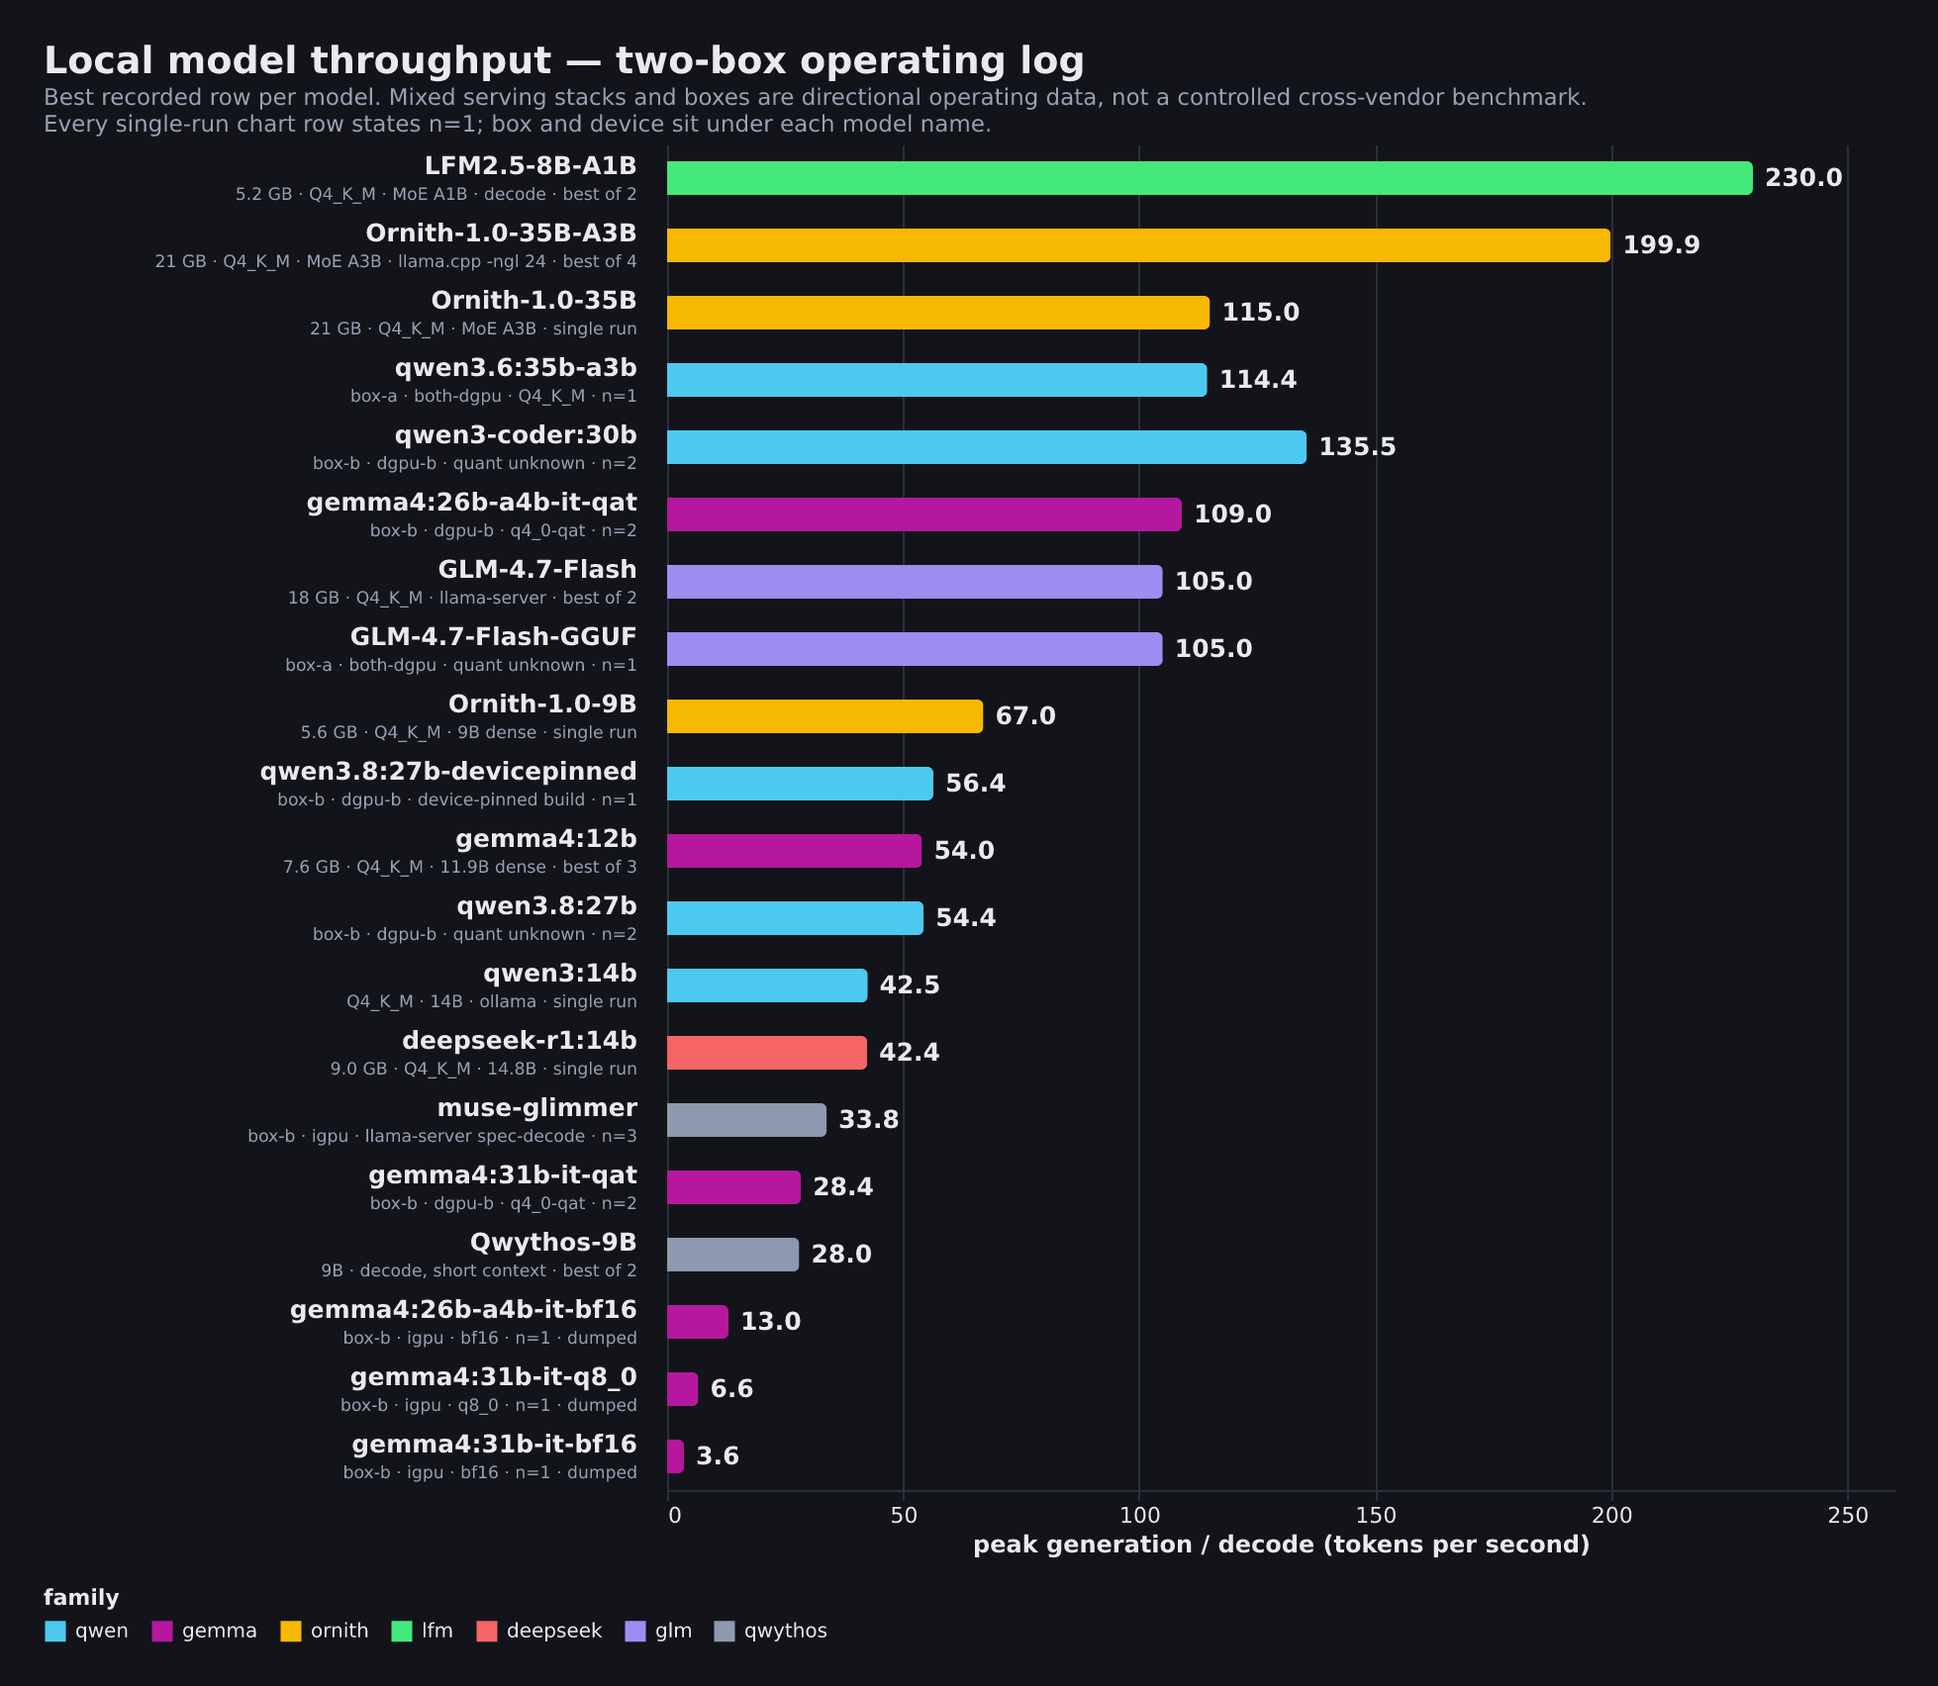
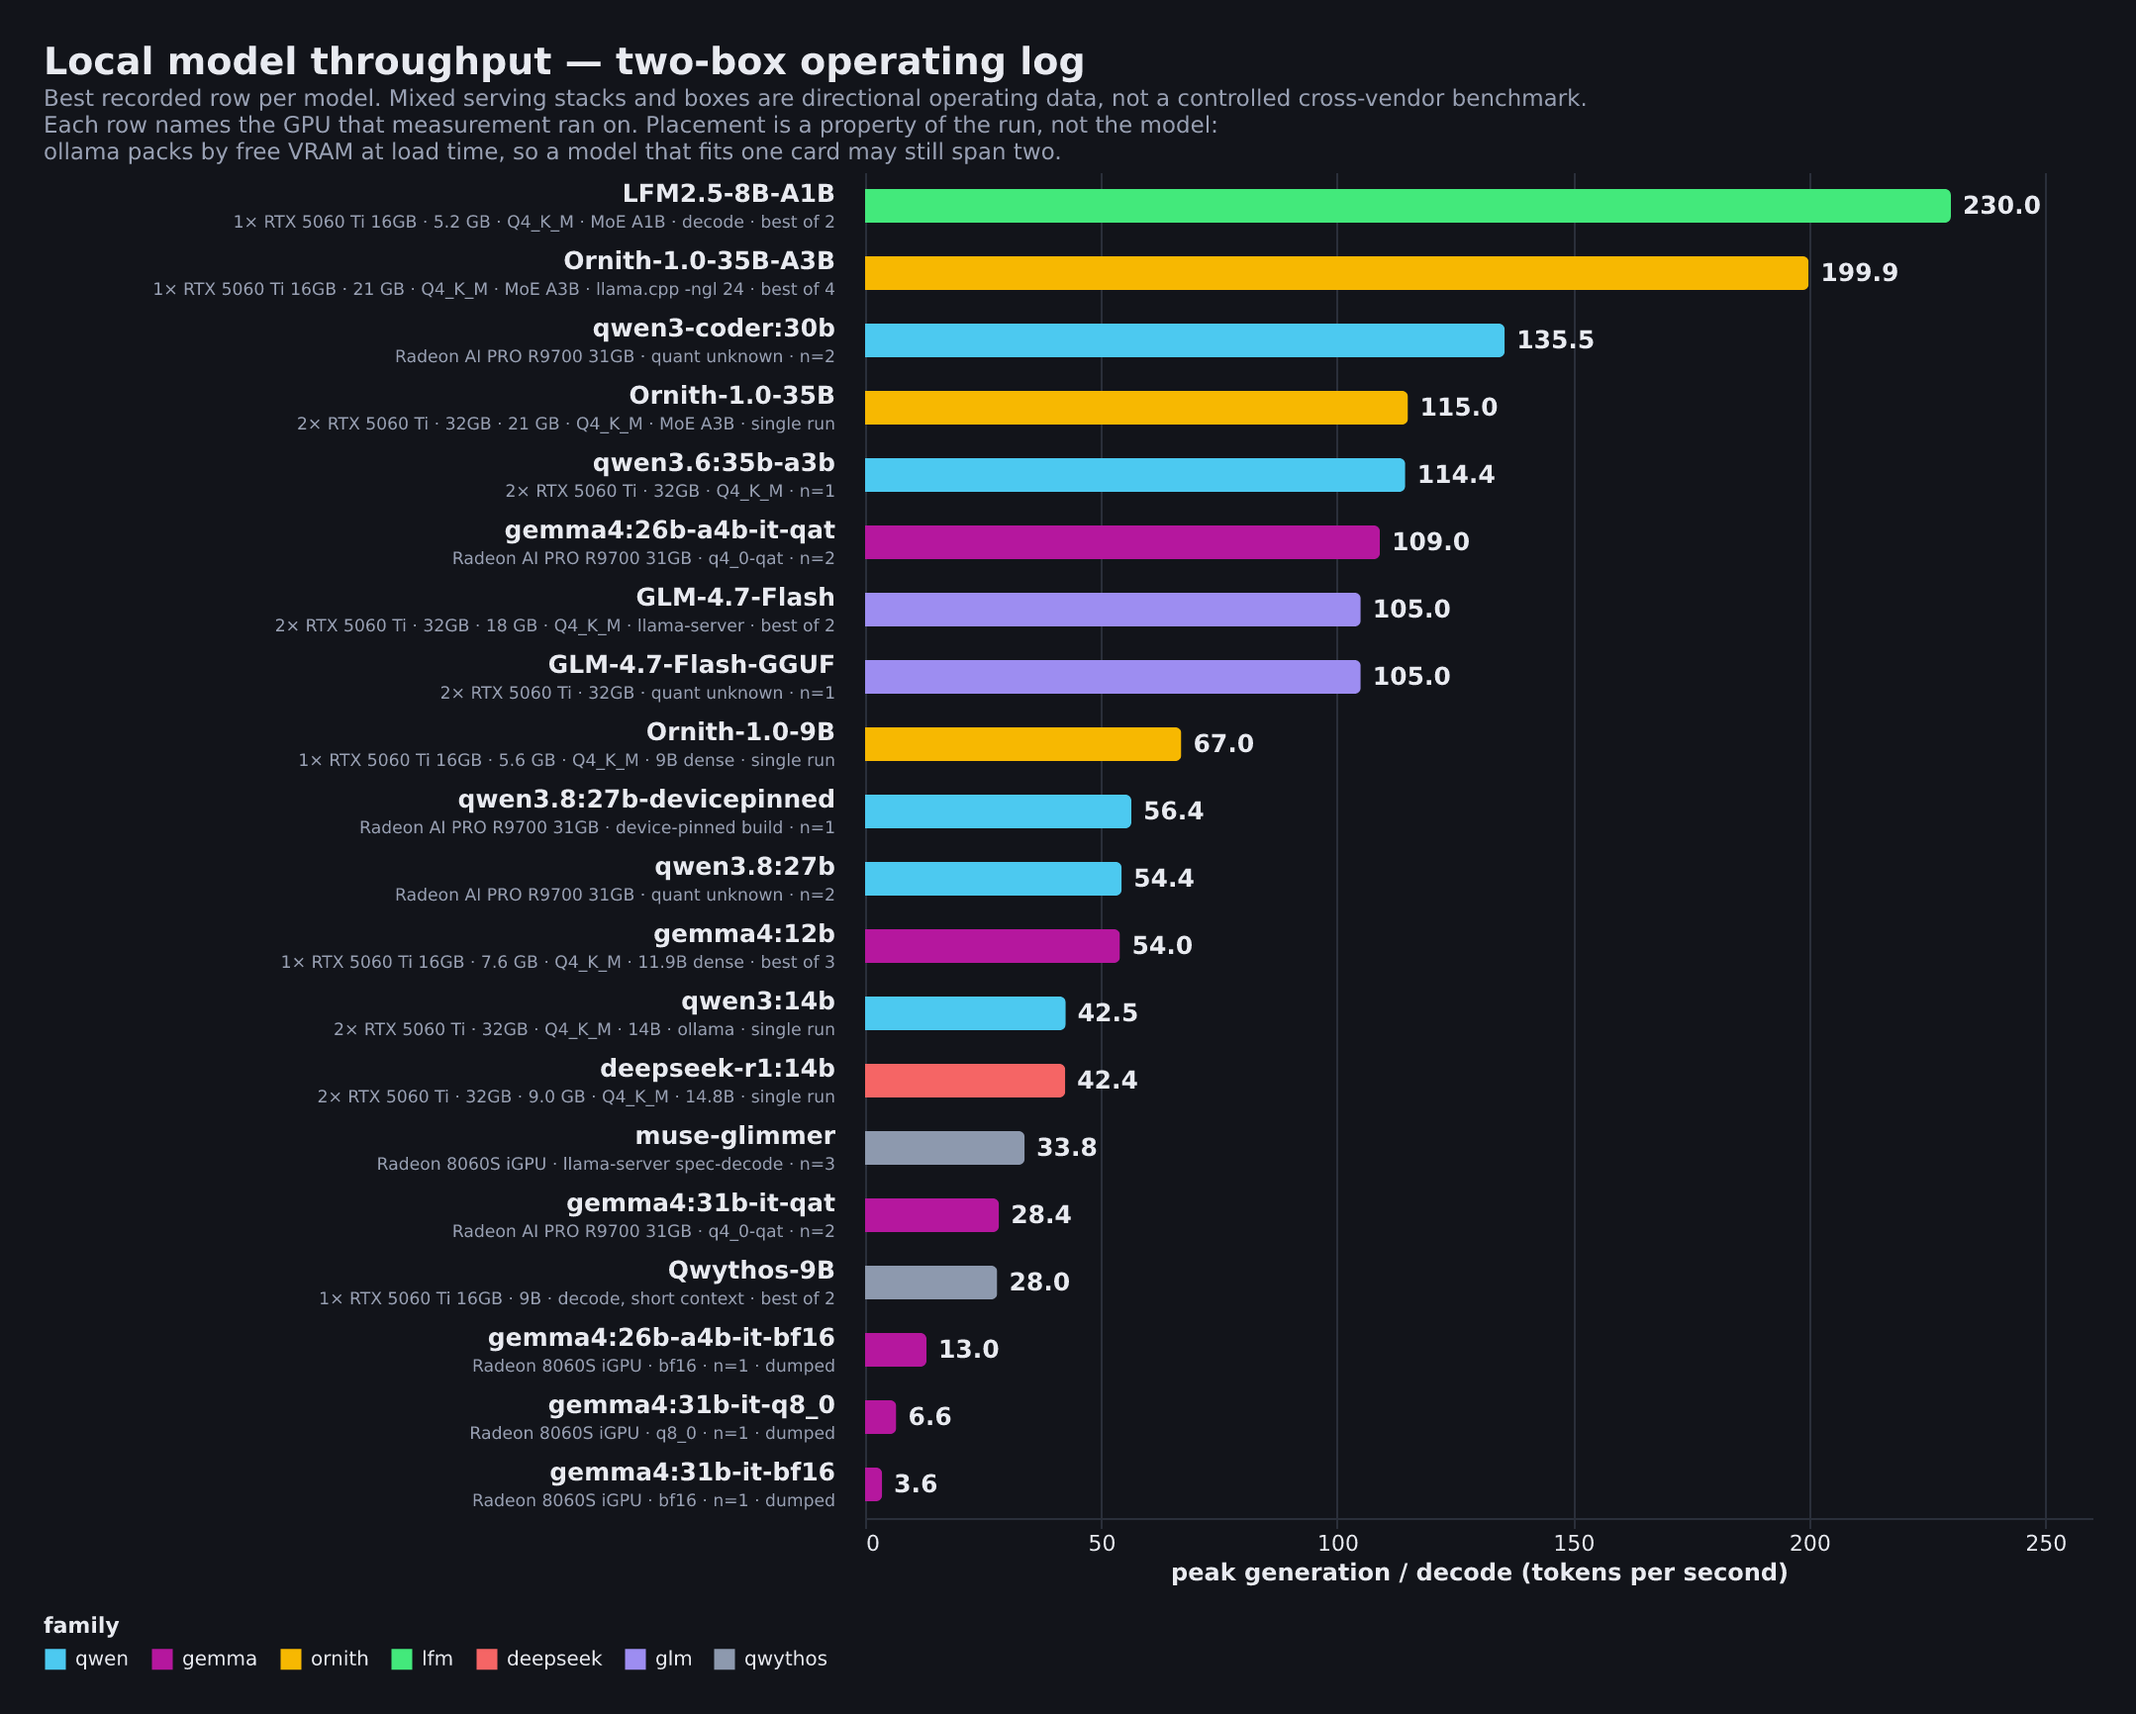
bench: name the GPU each measurement ran on, and fix four impossible device labels
Every peak-chart row now states its silicon - 1x or 2x RTX 5060 Ti, Radeon AI
PRO R9700, or Radeon 8060S iGPU - instead of the internal box-a/dgpu-a codes.
The mapping is derived from the CSV rather than typed into the detail strings,
because a hand-kept second copy of the device is the drift the consistency gate
already exists to prevent.

Verifying the old rows first, as asked, turned up four that were wrong rather
than merely unlabelled. Ornith-1.0-35B (21 GB) and GLM-4.7-Flash (18 GB) were
recorded as single-card runs on a 16 GiB card, which is not possible; loading
them shows 11839/11323 and 11447/10789 MiB across the pair. deepseek-r1:14b and
qwen3:14b each carried a two-number VRAM figure in their own condition field
that was already a per-card split - confirmed by measuring deepseek at
9131/8827 MiB today. All four corrected to both-dgpu.

The box was right in every case: everything predating the two-box split ran on
the 5060 Ti machine. Only the single-vs-dual detail was wrong.

Placement turns out not to be inferable from model size, so the chart says so:
ornith:9b is 5.6 GB and fits one card but loaded split 5435/5315 MiB, while
lfm:8b at 5.2 GB stayed on one. ollama packs by free VRAM at load time, so
device describes the run, not the model.

peak is now sorted in code. It had silently stopped matching the bars when
qwen3-coder went 111.7 -> 135.5 and stayed in fifth place.

Changed region(s): [[0.0, 0.0311, 0.9658, 0.9331], [0.0, 0.9331, 0.405, 0.9953], [0.9346, 0.8709, 0.9658, 0.902]]

diff --git a/bench/make_charts.py b/bench/make_charts.py
@@ -28,7 +28,58 @@ peak = [
     ("gemma4:31b-it-q8_0",      6.6, "gemma",    "box-b · igpu · q8_0 · n=1 · dumped"),
     ("gemma4:31b-it-bf16",      3.6, "gemma",    "box-b · igpu · bf16 · n=1 · dumped"),
 ]
-p1 = [{"model": m, "tps": v, "family": f, "detail": d} for m, v, f, d in peak]
+# Sorted here rather than by hand: when a re-measurement changes a value, a hand-kept order
+# silently stops matching the bars. (It did: qwen3-coder went 111.7 -> 135.5 and stayed 5th.)
+peak = sorted(peak, key=lambda t: -t[1])
+
+# ---------------------------------------------------------------- silicon labels
+# Every bar states the GPU it actually ran on. The mapping is derived from the CSV rather than
+# typed into the detail strings, because a hand-kept second copy of the device is exactly the
+# drift this file's consistency gate exists to prevent.
+#
+# ⚠ device is a property of the RUN, not of the model. ollama places by free VRAM at load time,
+# so the same model can land on one card or span two on different days — measured 2026-08-22:
+# ornith:9b is 5.6 GB and fits one card, yet was split 5435/5315 MiB across both, while lfm:8b
+# at 5.2 GB stayed on one. Read each row as "where this measurement ran".
+ALIAS = {"Ornith-1.0-35B-A3B": "Ornith-1.0-35B-A3B-MoE-Q4", "qwen3.6:35b-a3b": "qwen3.6:35b-a3b-q4_K_M"}
+GPU = {
+    ("box-a", "dgpu-a"):    "1× RTX 5060 Ti 16GB",
+    ("box-a", "both-dgpu"): "2× RTX 5060 Ti · 32GB",
+    ("box-b", "dgpu-b"):    "Radeon AI PRO R9700 31GB",
+    ("box-b", "igpu"):      "Radeon 8060S iGPU",
+}
+
+
+def _silicon():
+    """model -> GPU string, taken from the CSV row that supplies its peak figure."""
+    import csv, os
+    path = os.path.join(os.path.dirname(os.path.abspath(__file__)), "local_model_throughput.csv")
+    best = {}
+    for r in csv.DictReader(open(path)):
+        if r["metric"] not in ("generation", "decode"):
+            continue
+        v = float(r["tok_per_sec"])
+        if r["model"] not in best or v > best[r["model"]][0]:
+            best[r["model"]] = (v, r)
+    return {m: GPU.get((r["box"], r["device"]), "") for m, (v, r) in best.items()}
+
+
+_SIL = _silicon()
+
+
+def _detail(model, d):
+    """Lead with the silicon; drop the old box·device prefix so it is not stated twice."""
+    parts = [x.strip() for x in d.split("·")]
+    parts = [x for x in parts if not x.startswith("box-") and x not in
+             ("dgpu-a", "dgpu-b", "both-dgpu", "igpu")]
+    gpu = _SIL.get(ALIAS.get(model, model), "")
+    if not gpu:
+        # Never silently print a model with no device: say it is unrecorded.
+        gpu = "device unrecorded"
+    return " · ".join([gpu] + parts)
+
+
+p1 = [{"model": m, "tps": v, "family": f, "detail": _detail(m, d)} for m, v, f, d in peak]
 
 ab = [
     ("gemma4 31b→26b-a4b · 18-issue corroborate",  21.0, 100.0, "swap", "same task · 18/18 vs 16/18"),
@@ -65,16 +116,16 @@ order = [m for m, *_ in peak]
 
 ROWH1 = 34
 p1_text = {
-    "width": 300, "height": len(peak) * ROWH1,
+    "width": 400, "height": len(peak) * ROWH1,
     "data": {"values": p1},
     "encoding": {"y": {"field": "model", "type": "nominal", "sort": order, "title": None,
                        "axis": None, "scale": {"paddingInner": 0.22}}},
     "layer": [
-        {"mark": {"type": "text", "align": "right", "x": 300, "dy": -6,
-                  "fontSize": 12.5, "fontWeight": "bold", "color": FG, "limit": 298},
+        {"mark": {"type": "text", "align": "right", "x": 400, "dy": -6,
+                  "fontSize": 12.5, "fontWeight": "bold", "color": FG, "limit": 398},
          "encoding": {"text": {"field": "model"}}},
-        {"mark": {"type": "text", "align": "right", "x": 300, "dy": 8,
-                  "fontSize": 8.6, "color": MUTED, "limit": 298},
+        {"mark": {"type": "text", "align": "right", "x": 400, "dy": 8,
+                  "fontSize": 8.6, "color": MUTED, "limit": 398},
          "encoding": {"text": {"field": "detail"}}},
     ],
 }
@@ -102,7 +153,8 @@ p1_bars = {
 panel1 = {
     "title": {"text": "Local model throughput — two-box operating log",
               "subtitle": ["Best recorded row per model. Mixed serving stacks and boxes are directional operating data, not a controlled cross-vendor benchmark.",
-                           "Every single-run chart row states n=1; box and device sit under each model name."],
+                           "Each row names the GPU that measurement ran on. Placement is a property of the run, not the model:",
+                           "ollama packs by free VRAM at load time, so a model that fits one card may still span two."],
               "anchor": "start", "color": FG, "fontSize": 19, "subtitleColor": MUTED,
               "subtitleFontSize": 11.5},
     "hconcat": [p1_text, p1_bars], "spacing": 14,
@@ -249,7 +301,7 @@ def _verify_against_csv():
         if r["metric"] in ("generation", "decode"):
             best[r["model"]] = max(best[r["model"]], float(r["tok_per_sec"]))
             values.add((r["model"], float(r["tok_per_sec"])))
-    alias = {"Ornith-1.0-35B-A3B": "Ornith-1.0-35B-A3B-MoE-Q4", "qwen3.6:35b-a3b": "qwen3.6:35b-a3b-q4_K_M"}
+    alias = ALIAS
     bad = []
     for name, v, _fam, _detail in peak:
         key = alias.get(name, name)

diff --git a/README.md b/README.md
@@ -77,7 +77,11 @@ and `n_runs_for_model` so the sample size stays attached to the number. Some row
 This is not a controlled cross-vendor benchmark; it is a transparent record for operating decisions,
 with its limits visible.
 
-**Best recorded row per model** — box, device, quantisation, and run count sit under each name:
+**Best recorded row per model** — each row names **the GPU that measurement actually ran on**,
+then quantisation and run count. Placement is a property of the run rather than of the model:
+ollama packs by free VRAM at load time, so a model small enough for one card may still be split
+across two. Measured 2026-08-22 on Box A: `ornith:9b` is 5.6 GB and fits one card comfortably, yet
+loaded as 5435 / 5315 MiB across both, while `lfm:8b` at 5.2 GB stayed on a single card.
 
 ![Peak throughput per model](bench/01_peak_throughput.png)
 
@@ -189,7 +193,9 @@ rather than a slope — a model either fits or it doesn't:
   Ornith-9B (5.6 GB), gemma4:12b (7.6 GB) and deepseek-r1:14b (9.0 GB) all fit comfortably, with
   room left for KV cache. **This is the honest minimum** — most of the useful lanes live here.
 - **The second card buys the 30–35B tier.** qwen3.6:35b-a3b is 23 GB of weights and occupies
-  **25.1 GB** once loaded, so it spans both cards; Ornith-35B and qwen3-coder:30b are the same
+  **25.1 GB** once loaded, so it spans both cards — directly confirmed by loading it: Ornith-35B
+  sits at 11839 / 11323 MiB and GLM-4.7-Flash at 11447 / 10789 MiB, both across the pair, because
+  neither fits in one 16 GiB card at all. Ornith-35B and qwen3-coder:30b are the same
   story. Those are the 108–200 tok/s rows.
 - **Budget for runtime overhead, not just weights** — it does not scale with model size. See the
   third chart: one 9 GB model occupies 17 GB loaded.
